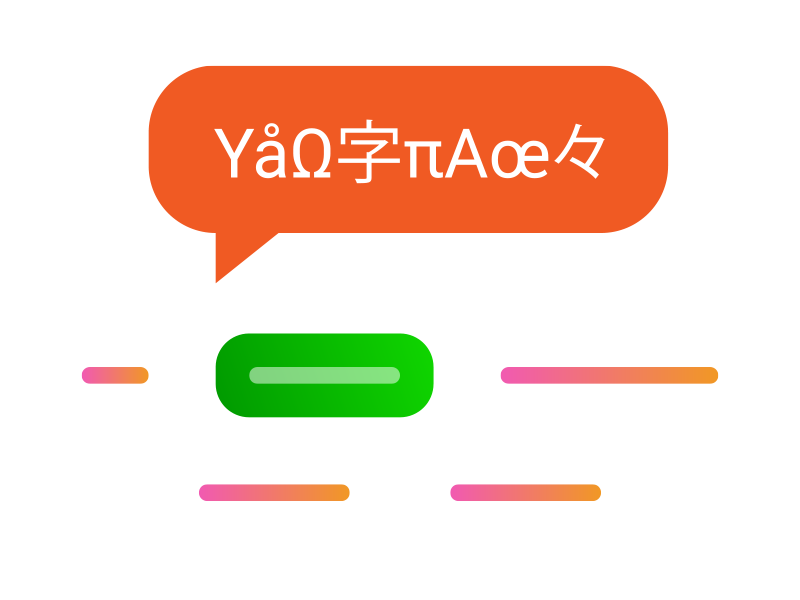
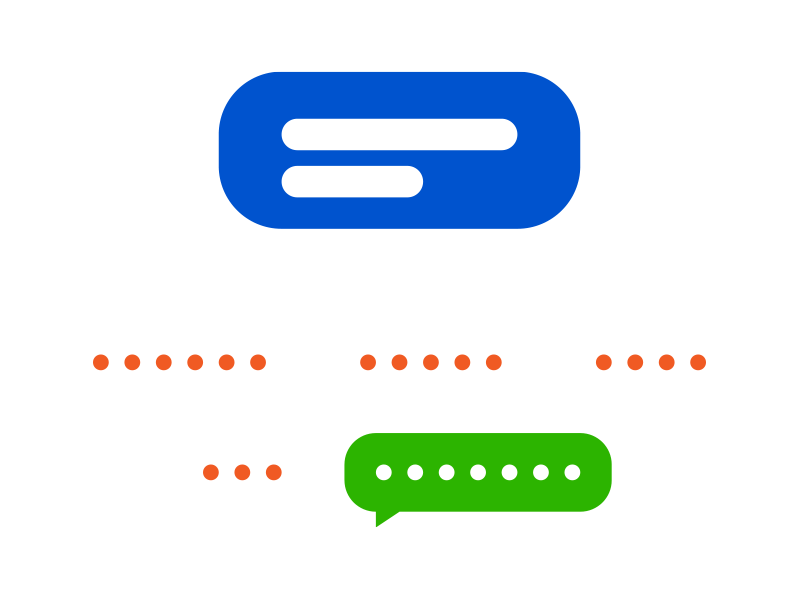
initial

Changed region(s): [[0.1875, 0.09, 0.8438, 0.48], [0.0938, 0.54, 0.9062, 0.87]]

diff --git a/components/TrainersList/TrainersList.tsx b/components/TrainersList/TrainersList.tsx
@@ -13,8 +13,8 @@ const TrainersList: React.FC<{ words: WordTypes[]; navigation: any }> = ({ words
     {
       id: 'bd7acbea-c1b1-46c2-aed5-3ad53abb28ba',
       screenName: 'Word to Translate',
-      imgSource: require('../../assets/images/png/trainer-translate-to-word.png'),
-      backgroundImg: require('../../assets/images/png/gradient-blue.png'),
+      imgSource: require('../../assets/images/png/trainer-word-to-translate.png'),
+      backgroundColor: 'blue',
       title: 'Find correct translation',
       words: words
     },
@@ -22,8 +22,8 @@ const TrainersList: React.FC<{ words: WordTypes[]; navigation: any }> = ({ words
       id: '3ac68afc-c605-48d3-a4f8-fbd91aa97f63',
       screenName: 'Translate to Word',
       title: 'Translate from your language',
-      imgSource: require('../../assets/images/png/trainer-word-to-translate.png'),
-      backgroundImg: require('../../assets/images/png/gradient-red.png'),
+      backgroundColor: 'mediumvioletred',
+      imgSource: require('../../assets/images/png/trainer-translate-to-word.png'),
       words: words
     }
   ];
@@ -40,7 +40,7 @@ const TrainersList: React.FC<{ words: WordTypes[]; navigation: any }> = ({ words
           title={item.title}
           onPress={() => navigation.navigate(item.screenName, item.words)}
           imgSource={item.imgSource}
-          backgroundImg={item.backgroundImg}
+          backgroundColor={item.backgroundColor}
         />
       )}
       keyExtractor={({ id }: { id: string }) => id}

diff --git a/components/TrainerItem/TrainerItem.tsx b/components/TrainerItem/TrainerItem.tsx
@@ -1,17 +1,14 @@
 import React from 'react';
-import { Text, View, Image, TouchableOpacity } from 'react-native';
+import { Text, Image, TouchableOpacity } from 'react-native';
 import { TrainerItemProps } from './types';
 import { styles } from './styles';
 
-const TrainerItem: React.FC<TrainerItemProps> = ({ title, onPress, imgSource, backgroundImg }): JSX.Element => (
-  <TouchableOpacity style={styles.container} onPress={onPress}>
-    <View style={styles.image}>
-      <Image resizeMode="contain" source={imgSource} style={styles.illustration} />
-      <Text style={styles.title} accessibilityRole="button">
-        {title}
-      </Text>
-    </View>
-    <Image resizeMode="stretch" source={backgroundImg} style={{ flex: 1 }} />
+const TrainerItem: React.FC<TrainerItemProps> = ({ title, onPress, backgroundColor, imgSource }): JSX.Element => (
+  <TouchableOpacity style={[styles.container, { backgroundColor: backgroundColor }]} onPress={onPress}>
+    <Image resizeMode="contain" source={imgSource} style={styles.illustration} />
+    <Text style={styles.title} accessibilityRole="button">
+      {title}
+    </Text>
   </TouchableOpacity>
 );
 

diff --git a/components/TrainerItem/styles.js b/components/TrainerItem/styles.js
@@ -2,39 +2,23 @@ import { StyleSheet } from 'react-native';
 
 export const styles = StyleSheet.create({
   container: {
-    // borderWidth: 1,
-    // borderColor: 'silver',
-    flex: 1,
+    justifyContent: 'center',
+    alignItems: 'center',
     height: 200,
     margin: 10,
-    borderRadius: 7,
-    overflow: 'hidden',
+    borderRadius: 20,
     backgroundColor: 'blue',
-    position: 'relative'
-  },
-  image: {
-    // borderWidth: 1,
-    // borderColor: 'black',
-    // justifyContent: 'center',
-    // alignItems: 'center',
-    position: 'absolute',
-    zIndex: 120,
-    flex: 1,
-    height: '100%',
-    width: '100%',
     padding: 10
   },
   illustration: {
-    flex: 1,
-    width: '100%'
+    flex: 1
   },
   title: {
     textAlign: 'center',
     paddingHorizontal: 10,
     paddingTop: 10,
     paddingBottom: 15,
-    fontSize: 18,
-    fontWeight: 'bold',
+    fontSize: 22,
     color: 'white'
   }
 });

diff --git a/components/TrainerItem/types.ts b/components/TrainerItem/types.ts
@@ -3,6 +3,6 @@ import { GestureResponderEvent, ImageSourcePropType } from 'react-native';
 export interface TrainerItemProps {
   title: string;
   imgSource: ImageSourcePropType;
-  backgroundImg: ImageSourcePropType;
+  backgroundColor: string;
   onPress: (event: GestureResponderEvent) => void;
 }

diff --git a/components/TrainersListHeader/TrainersListHeader.tsx b/components/TrainersListHeader/TrainersListHeader.tsx
@@ -18,7 +18,7 @@ const TrainersListHeader: React.FC<{ offset: any }> = ({ offset }): JSX.Element 
       }
     ]}
   >
-    <Text style={styles.title}>Word trainers</Text>
+    <Text style={styles.title}>Trainers</Text>
   </Animated.View>
 );
 

diff --git a/components/TrainersListHeader/styles.js b/components/TrainersListHeader/styles.js
@@ -10,6 +10,7 @@ export const styles = StyleSheet.create({
   title: {
     textAlign: 'center',
     fontSize: 24,
-    paddingHorizontal: 10
+    paddingHorizontal: 10,
+    fontWeight: '600'
   }
 });
